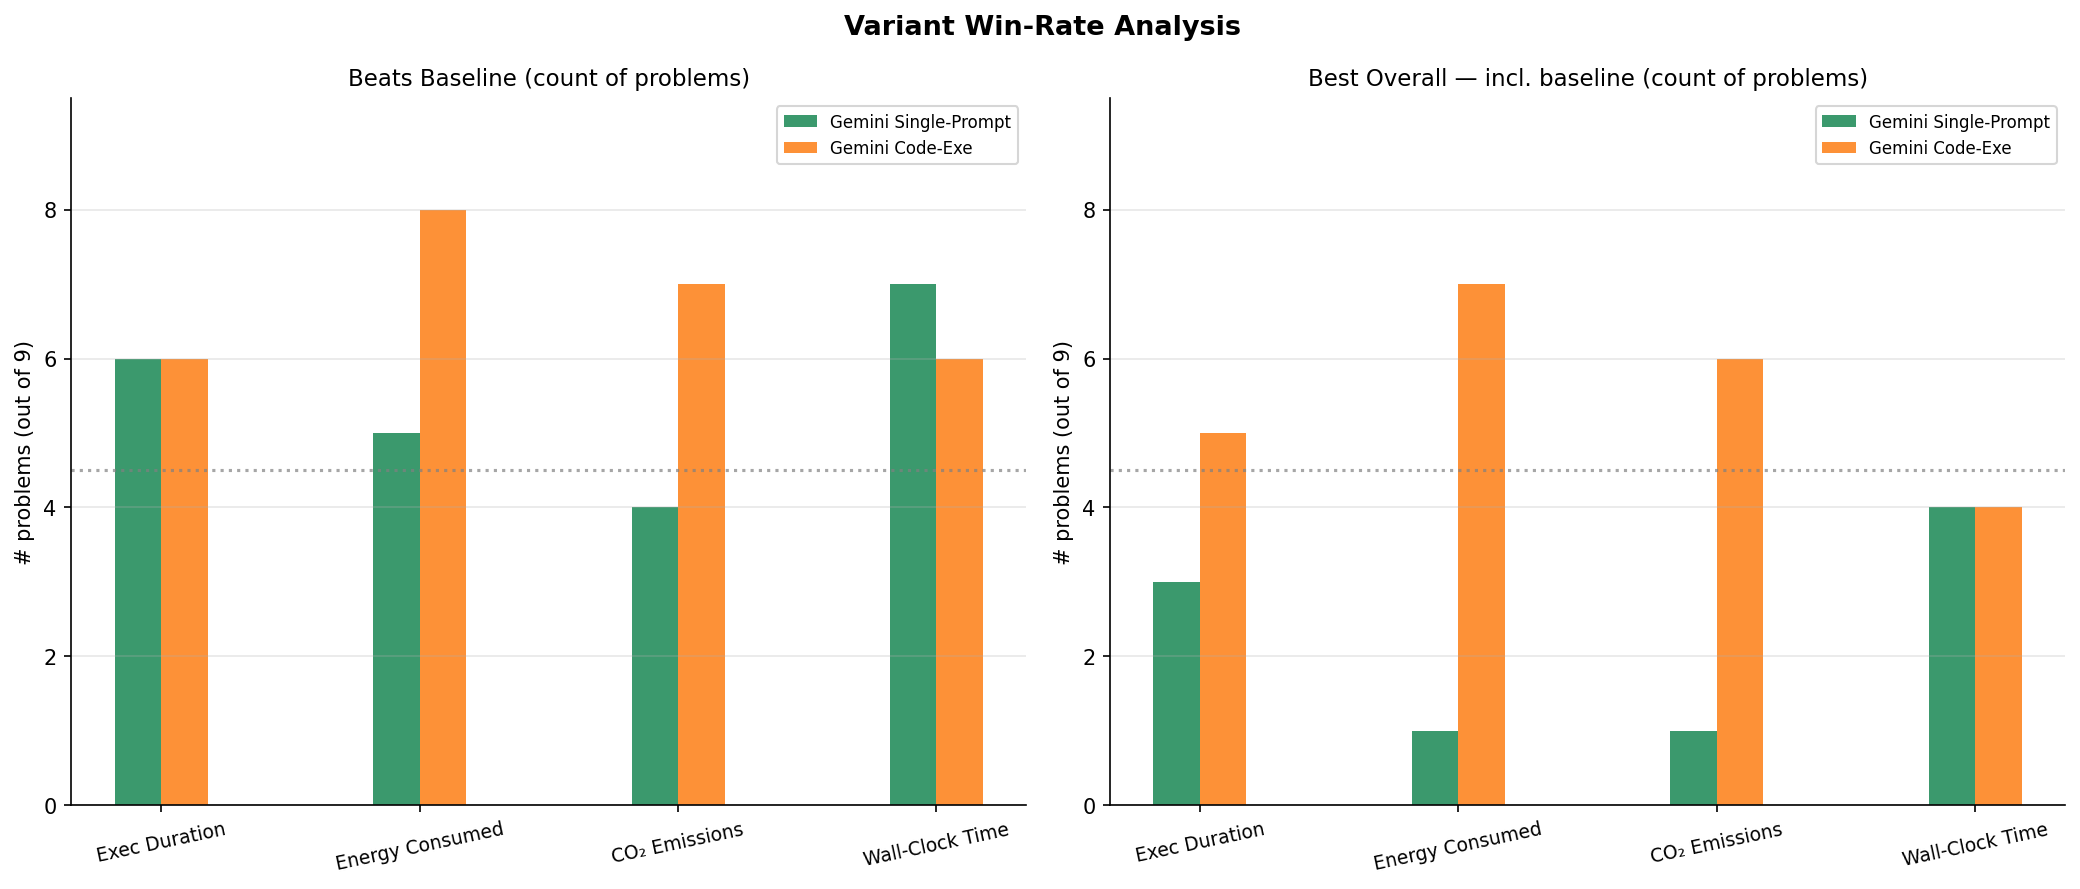
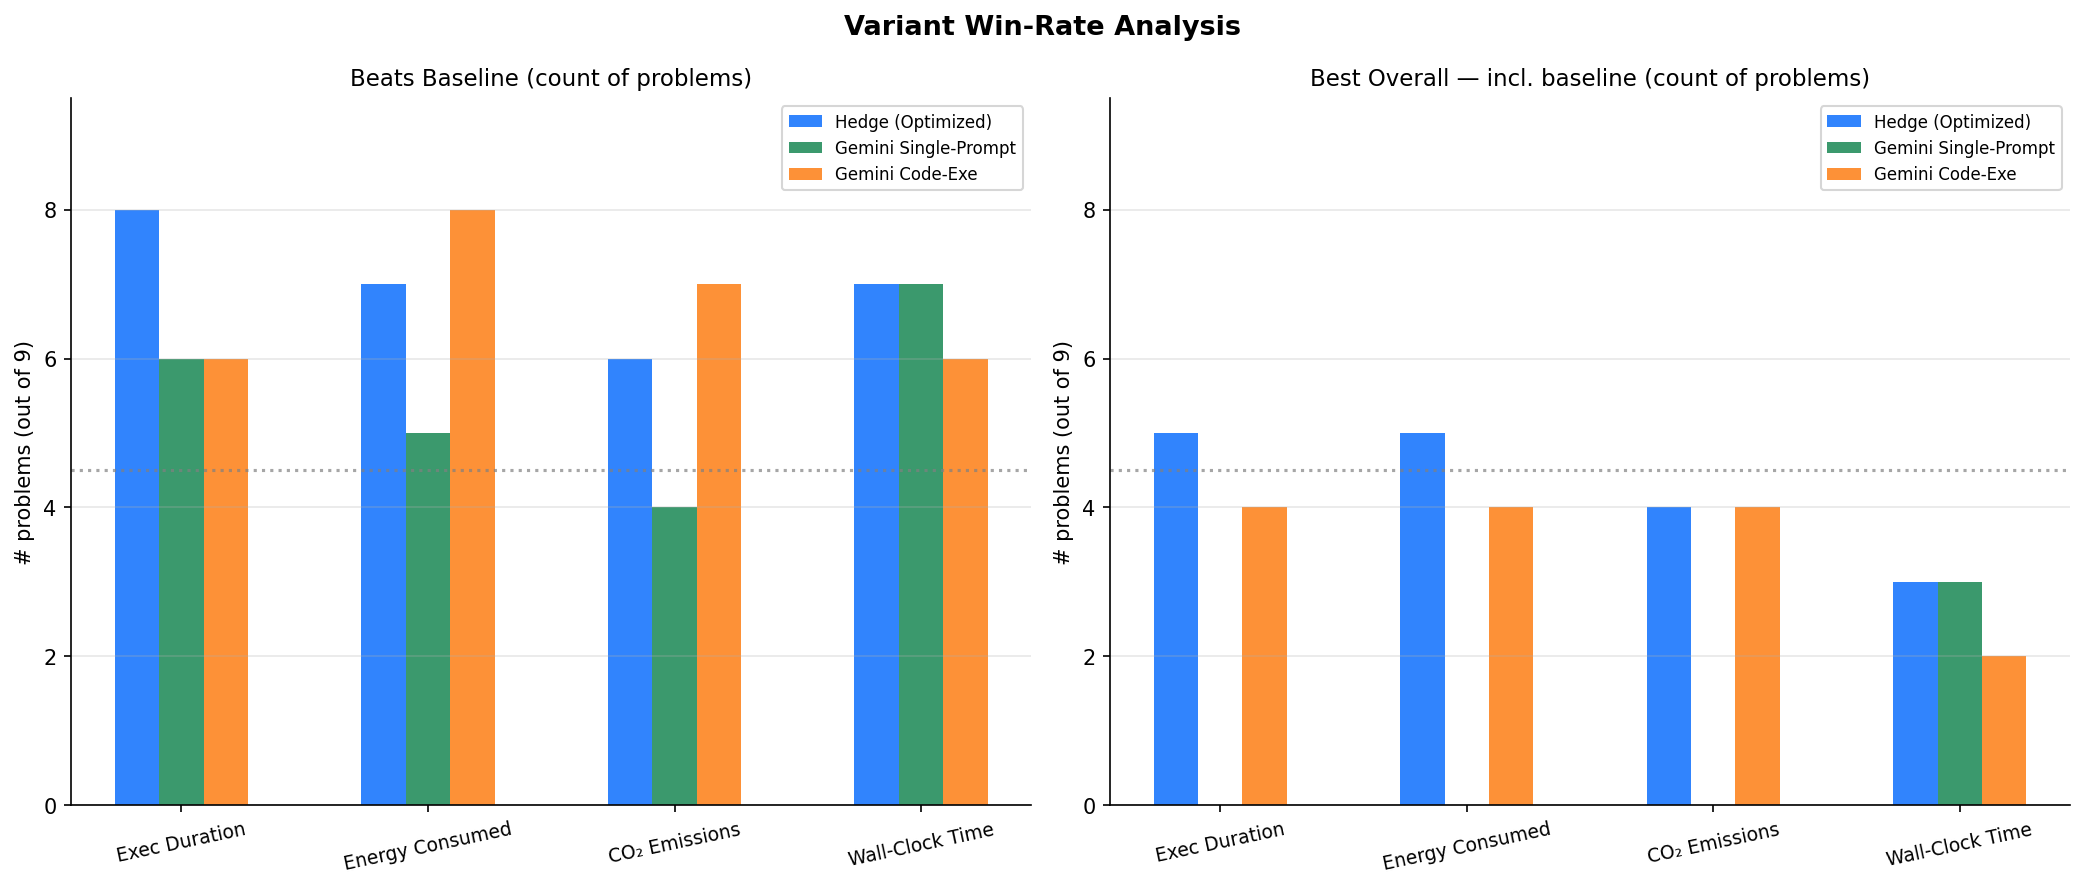
comparison_of_hedge_gemini_single_prompt_baseline_plots

diff --git a/scripts/plot_variant_benchmark.py b/scripts/plot_variant_benchmark.py
@@ -30,21 +30,21 @@ import numpy as np
 
 VARIANT_ORDER = [
     "benchmark",
-    "optimized:evoeval_results_20260219_225745",
+    "optimized:evoeval_results_20260211_190545",
     "single_prompt:gemini",
     "single_prompt:gemini_code_exe",
 ]
 
 VARIANT_SHORT = {
     "benchmark":                                    "Baseline",
-    "optimized:evoeval_results_20260219_225745":    "Hedge\n(Optimized)",
+    "optimized:evoeval_results_20260211_190545":    "Hedge\n(Optimized)",
     "single_prompt:gemini":                         "Gemini\nSingle-Prompt",
     "single_prompt:gemini_code_exe":                "Gemini\nCode-Exe",
 }
 
 VARIANT_COLOR = {
     "benchmark":                                    "#6c757d",
-    "optimized:evoeval_results_20260219_225745":    "#0d6efd",
+    "optimized:evoeval_results_20260211_190545":    "#0d6efd",
     "single_prompt:gemini":                         "#198754",
     "single_prompt:gemini_code_exe":                "#fd7e14",
 }
